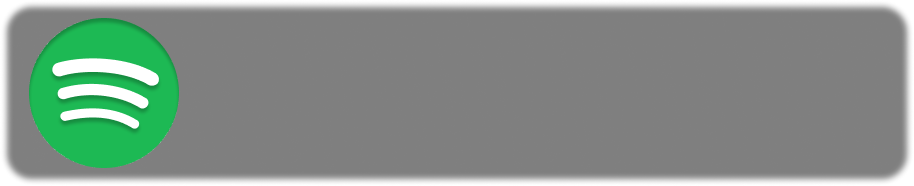
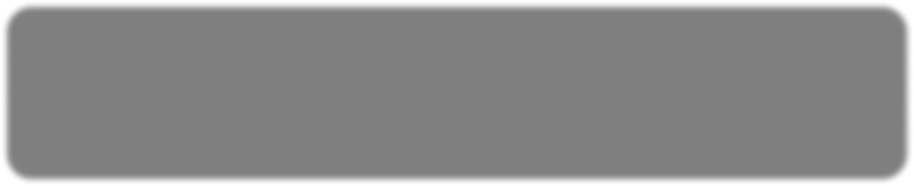
VSCode integration, easier process for adding new apps

Changed region(s): [[0.0306, 0.0806, 0.2144, 0.914]]

diff --git a/src/app.ts b/src/app.ts
@@ -1,24 +1,67 @@
 require("dotenv").config();
 import axios from "axios";
 import WebSocket from "ws";
-import { createImage, createBlank } from "./createImage";
+import { createImage, createBlank, Status } from "./createImage";
+import apps from "./apps.json";
+
 const connection = new WebSocket("wss://api.lanyard.rest/socket");
 
+interface LanyardStatus {
+  state: string;
+  name: string;
+  details: string;
+}
+
+interface App {
+  topText: string;
+  midText: string;
+  botText: string;
+  iconName: string;
+}
+
+/**
+ * @description Checks if the app is registered in apps.json
+ */
+function getApp(name: string): App | boolean {
+  //@ts-ignore
+  const app = apps[name];
+
+  if (!app) return false;
+  return app as App;
+}
+
+/**
+ * @description replaces brackets with proper data for the final image creation.
+ */
+function prepareStatus(data: LanyardStatus, app: any): Status {
+  return {
+    topText: app.topText
+      .replace("{name}", data.name)
+      .replace("{state}", data.state)
+      .replace("{details}", data.details),
+    midText: app.midText
+      .replace("{name}", data.name)
+      .replace("{state}", data.state)
+      .replace("{details}", data.details),
+    botText: app.botText
+      .replace("{name}", data.name)
+      .replace("{state}", data.state)
+      .replace("{details}", data.details),
+    iconDir: app.iconName,
+  };
+}
+
 function patchHiven(img: string) {
-  axios
-    .patch(
-      "https://api.hiven.io/v1/users/@me",
-      { header: `${img}` },
-      {
-        headers: {
-          "Content-Type": "application/json",
-          Authorization: process.env.TOKEN,
-        },
-      }
-    )
-    .then((res) => {
-      console.log(res.status);
-    });
+  axios.patch(
+    "https://api.hiven.io/v1/users/@me",
+    { header: `${img}` },
+    {
+      headers: {
+        "Content-Type": "application/json",
+        Authorization: process.env.TOKEN,
+      },
+    }
+  );
 }
 
 function patchHivenAndQuit(img: string) {
@@ -55,23 +98,41 @@ connection.onopen = (_event) => {
 };
 
 connection.onmessage = ({ data }) => {
+  //@ts-ignore
   const d = JSON.parse(data);
   switch (d.t) {
     case "PRESENCE_UPDATE":
     case "INIT_STATE":
       const data = d.d;
-
+      data.activities = data.activities.filter(
+        (activity: any) => activity.type != 4
+      );
       if (data.spotify) {
-        console.log(`Listening to ${data.spotify.song}`);
+        console.log(`Listening to ${data.spotify.song} on Spotify`);
+
+        const appData = getApp("Spotify");
         createImage(
-          data.spotify.song,
-          data.spotify.artist.split("; ")[0],
+          prepareStatus(
+            {
+              name: data.spotify.song,
+              state: data.spotify.artist,
+              details: "",
+            },
+            appData
+          ),
           patchHiven
         );
       } else {
-        console.log(`Not Listening anything.`);
-
-        createBlank(patchHiven);
+        const activity = data.activities?.[0] as LanyardStatus;
+        const appData = getApp(activity?.name);
+        if (!appData) {
+          createBlank(patchHiven);
+          console.log("Not doing anything.");
+        } else {
+          const status = prepareStatus(activity, appData);
+          createImage(status, patchHiven);
+          console.log(status.topText);
+        }
       }
       break;
   }

diff --git a/src/createImage.ts b/src/createImage.ts
@@ -6,7 +6,14 @@ interface Callback {
   (buffer: string): void;
 }
 
-async function createImage(songName: string, songArtist: string, cb: Callback) {
+interface Status {
+  iconDir: string;
+  topText: string;
+  midText: string;
+  botText: string;
+}
+
+async function createImage(status: Status, cb: Callback) {
   const canvas = createCanvas(1000, 500);
   const ctx = canvas.getContext("2d");
   registerFont(path.join(process.cwd(), "assets/code/Roboto-Regular.ttf"), {
@@ -20,26 +27,34 @@ async function createImage(songName: string, songArtist: string, cb: Callback) {
   const background = await loadImage(
     path.join(process.cwd(), "assets/user/background.png")
   );
-  ctx.drawImage(background, 0, 0);
-
-  // Draw StatusBar
   const statusBar = await loadImage(
     path.join(process.cwd(), "assets/code/StatusBar.png")
   );
+  const icon = await loadImage(
+    path.join(process.cwd(), `assets/code/icons/${status.iconDir}`)
+  );
+  ctx.drawImage(background, 0, 0);
+
+  // Draw StatusBar
   ctx.drawImage(statusBar, 55, 89);
+  ctx.drawImage(icon, 84, 107);
   // Write Status
   ctx.font = '24px "RobotoM"';
   ctx.fillStyle = "#ffffff";
-  ctx.fillText("Now Playing:", 247, 146);
+  ctx.fillText(status.topText, 247, 146);
   ctx.fillText(
-    `by ${songArtist.substring(0, 30)}${songArtist.length > 30 ? "..." : ""}`,
+    `${status.botText.substring(0, 30)}${
+      status.botText.length > 30 ? "..." : ""
+    }`,
     247,
     216
   );
 
   ctx.font = '36px "Roboto"';
   ctx.fillText(
-    `${songName.substring(0, 30)}${songName.length > 30 ? "..." : ""}`,
+    `${status.midText.substring(0, 30)}${
+      status.midText.length > 30 ? "..." : ""
+    }`,
     247,
     186
   );
@@ -62,4 +77,4 @@ async function createBlank(cb: Callback) {
   cb(buffer);
 }
 
-export { createImage, createBlank };
+export { createImage, createBlank, Status };

diff --git a/README.md b/README.md
@@ -4,25 +4,35 @@
 
 This small project let's you display your status on your Hiven Header image using the Lanyard API. Make sure you are in [Lanyard Discord Server](https://discord.gg/UrXF2cfJ7F).
 
-**NOTE: Currently only supports Spotify. More coming soon.**
-
 ## Configuring
 
-1. Create a `.env` file using the `.example.env`
+1. Create a `.env` file referencing the `.example.env`
 2. Install node packages.
-3. Build it.
+3. Build the project using the build script.
 4. Run the start script using your prefered package manager (yarn/npm)
 5. You can change the background from `assets/user/background.png`. It would be better if the image is 1000x500, though I had no issues with 1920x1080.
+
+## Want to add a new App to show on your status?
+
+1. Add the app icon in the `assets/code/icons` as a png and **make sure it's 150x150**
+2. Add the app in `src/apps.json` using this schema:
+
+```json
+    "App Name That Gets Returned From Discord/Lanyard": {
+      "topText": "",
+      "midText": "",
+      "botText": "",
+      "iconName": "app.png"
+  }
+```
+
+3. You can use `{name} | {state} | {details}` in the json file to make the app status more dynamic.
+4. Save, test and create a PR!
 
 ## Troubleshooting
 
 **Q: Canvas build is not passing**\
-**A: It's probably due to your OS or processor architecture not being supported (Like M1). I solved it by downloading [these dependencies](https://github.com/Automattic/node-canvas#compiling).**
-
-## To Do
-
-- [x] Spotify Status
-- [ ] VSCode Status
+**A:** It's probably due to your OS or processor architecture not being supported (Like M1). I solved it by downloading [these dependencies](https://github.com/Automattic/node-canvas#compiling).
 
 ## Special Thanks To
 
